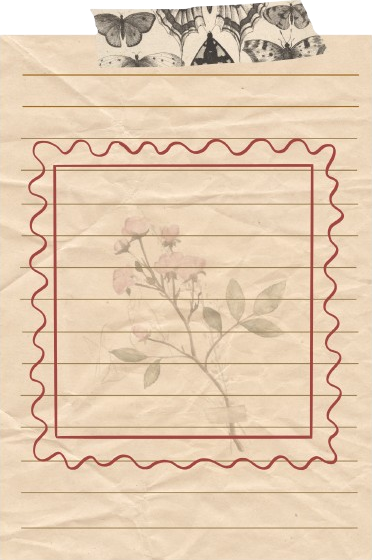
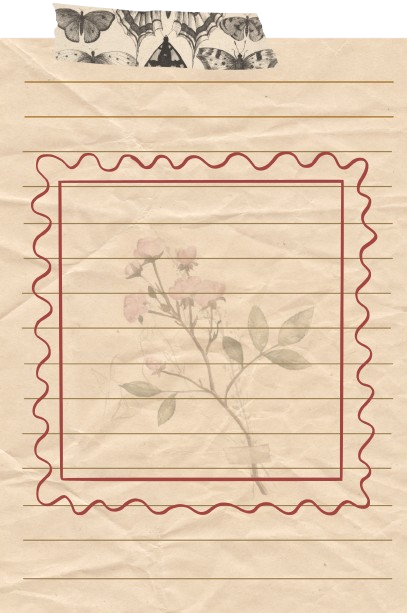
chore: cambios en objetos decorativos en Home

diff --git a/src/pages/Home.jsx b/src/pages/Home.jsx
@@ -4,8 +4,9 @@ import polaroid1 from "../assets/images/accesories/foto-polaroid.webp";
 import polaroid2 from "../assets/images/accesories/foto-polaroid-2.webp";
 import clip1 from "../assets/images/accesories/clip-1.webp";
 import trozoPapel1 from "../assets/images/accesories/trozo-papel-7.png";
-import trozoPapel10 from "../assets/images/accesories/trozo-papel-10.png";
 import decor2 from "../assets/images/accesories/decor-2.png";
+import decor11 from "../assets/images/accesories/decor-11.png";
+import decor12 from "../assets/images/accesories/decor-15.png";
 import { useState } from "react";
 import { motion } from "motion/react";
 
@@ -43,6 +44,17 @@ export default function Home() {
           alt=""
           className="
         absolute
+        top-8 left-15
+        w-[95%] h-full
+        object-fit
+        rotate-2
+        shadow-(--shadow-paper)"
+        />
+        <img
+          src={paperHome}
+          alt=""
+          className="
+        absolute
         top-8 left-10
         w-[95%] h-full
         object-fit
@@ -73,21 +85,31 @@ export default function Home() {
             className={`
             absolute
             inset-0
-          w-80 h-120
-          shadow-(--shadow-photo)
-          ${topPhoto === 1 ? "z-20 -rotate-4" : "z-10 -rotate-3"}`}
+            w-80 h-120
+            shadow-(--shadow-photo)
+            ${topPhoto === 1 ? "z-20 -rotate-4" : "z-10 -rotate-3"}`}
           />
           <img
             src={polaroid2}
             alt=""
             className={`
-              absolute
-              inset-0
-          w-80 h-120
-          shadow-(--shadow-photo)
-          ${topPhoto === 2 ? "z-20 rotate-3" : "z-10 rotate-4"}`}
+            absolute
+            inset-0
+            w-80 h-120
+            shadow-(--shadow-photo)
+            ${topPhoto === 2 ? "z-20 rotate-3" : "z-10 rotate-8"}`}
           />
         </div>
+        <img
+          src={decor12}
+          alt=""
+          className="
+          absolute
+          top-6 right-12
+          w-70 h-70
+          opacity-70
+          -rotate-4"
+        />
         <div
           className="
         relative
@@ -100,7 +122,7 @@ export default function Home() {
           <p
             className="
             absolute
-            top-60 left-22
+            top-56 left-22
             font-heading
             font-semibold
             text-3xl
@@ -111,7 +133,7 @@ export default function Home() {
           <p
             className="
           absolute
-          top-72 left-20
+          top-72 left-18
           font-heading
           font-semibold
           text-2xl
@@ -128,13 +150,14 @@ export default function Home() {
           />
         </div>
         <img
-          src={trozoPapel10}
+          src={decor11}
           alt=""
           className="
           absolute
-          top-14 left-130
-          w-80 h-140
-          -rotate-4"
+          top-22 left-70
+          w-110 h-110
+          opacity-90
+          -rotate-3"
         />
         <img
           src={decor2}
